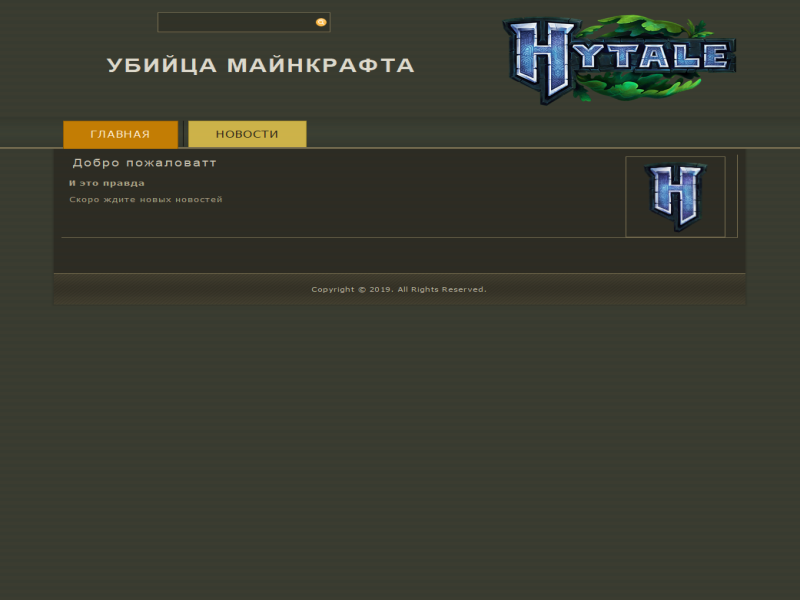
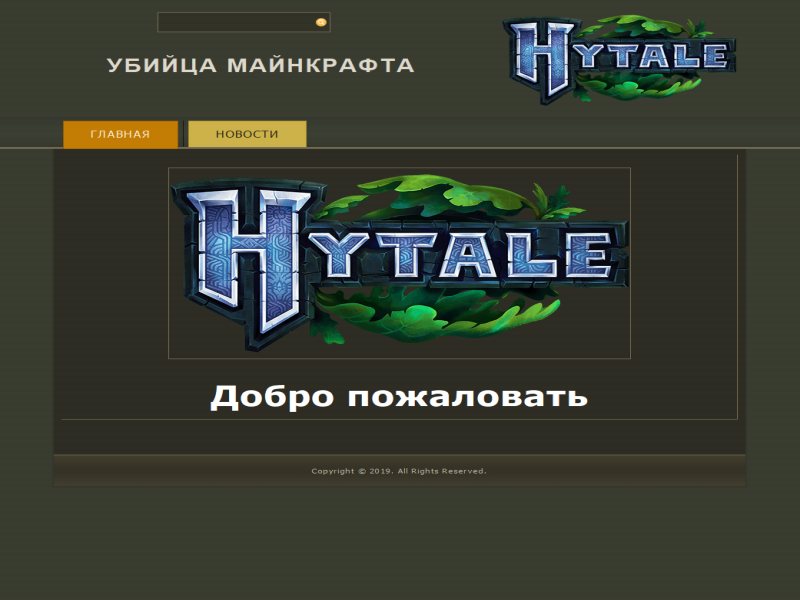
Обновление

diff --git a/index.html b/index.html
@@ -59,7 +59,7 @@
                                 <div class="art-postcontent art-postcontent-0 clearfix"><div class="art-content-layout">
     <div class="art-content-layout-row">
     <div class="art-layout-cell layout-item-0" style="width: 100%" >
-        <div class="image-caption-wrapper" style="padding-top: 3px; padding-right: 5px; padding-bottom: 4px; padding-left: 5px;"><span style="line-height: 21px; letter-spacing: 2px; font-size: 18px; font-family: Arial, 'Arial Unicode MS', Helvetica, sans-serif; color: rgb(204, 197, 178);">Добро пожаловатт<img width="130" height="138" style="float: right; margin-top: 10px; margin-right: 10px; margin-bottom: 10px; margin-left: 10px;" alt="" class="art-lightbox" src="images/DuBBVmoWoAAL7Eu.png"></span><br></div><p><span style="font-weight: bold;">И это правда</span></p><p>Скоро ждите новых новостей</p>
+        <p style="text-align: center;"><img width="600" height="325" alt="" class="art-lightbox" src="images/logo.png"><span style="color: rgb(255, 255, 255); font-size: 48px; font-weight: bold;"><br></span></p><p style="text-align: center;"><span style="color: rgb(255, 255, 255); font-size: 48px; font-weight: bold;">Добро пожаловать</span><br></p>
     </div>
     </div>
 </div>
